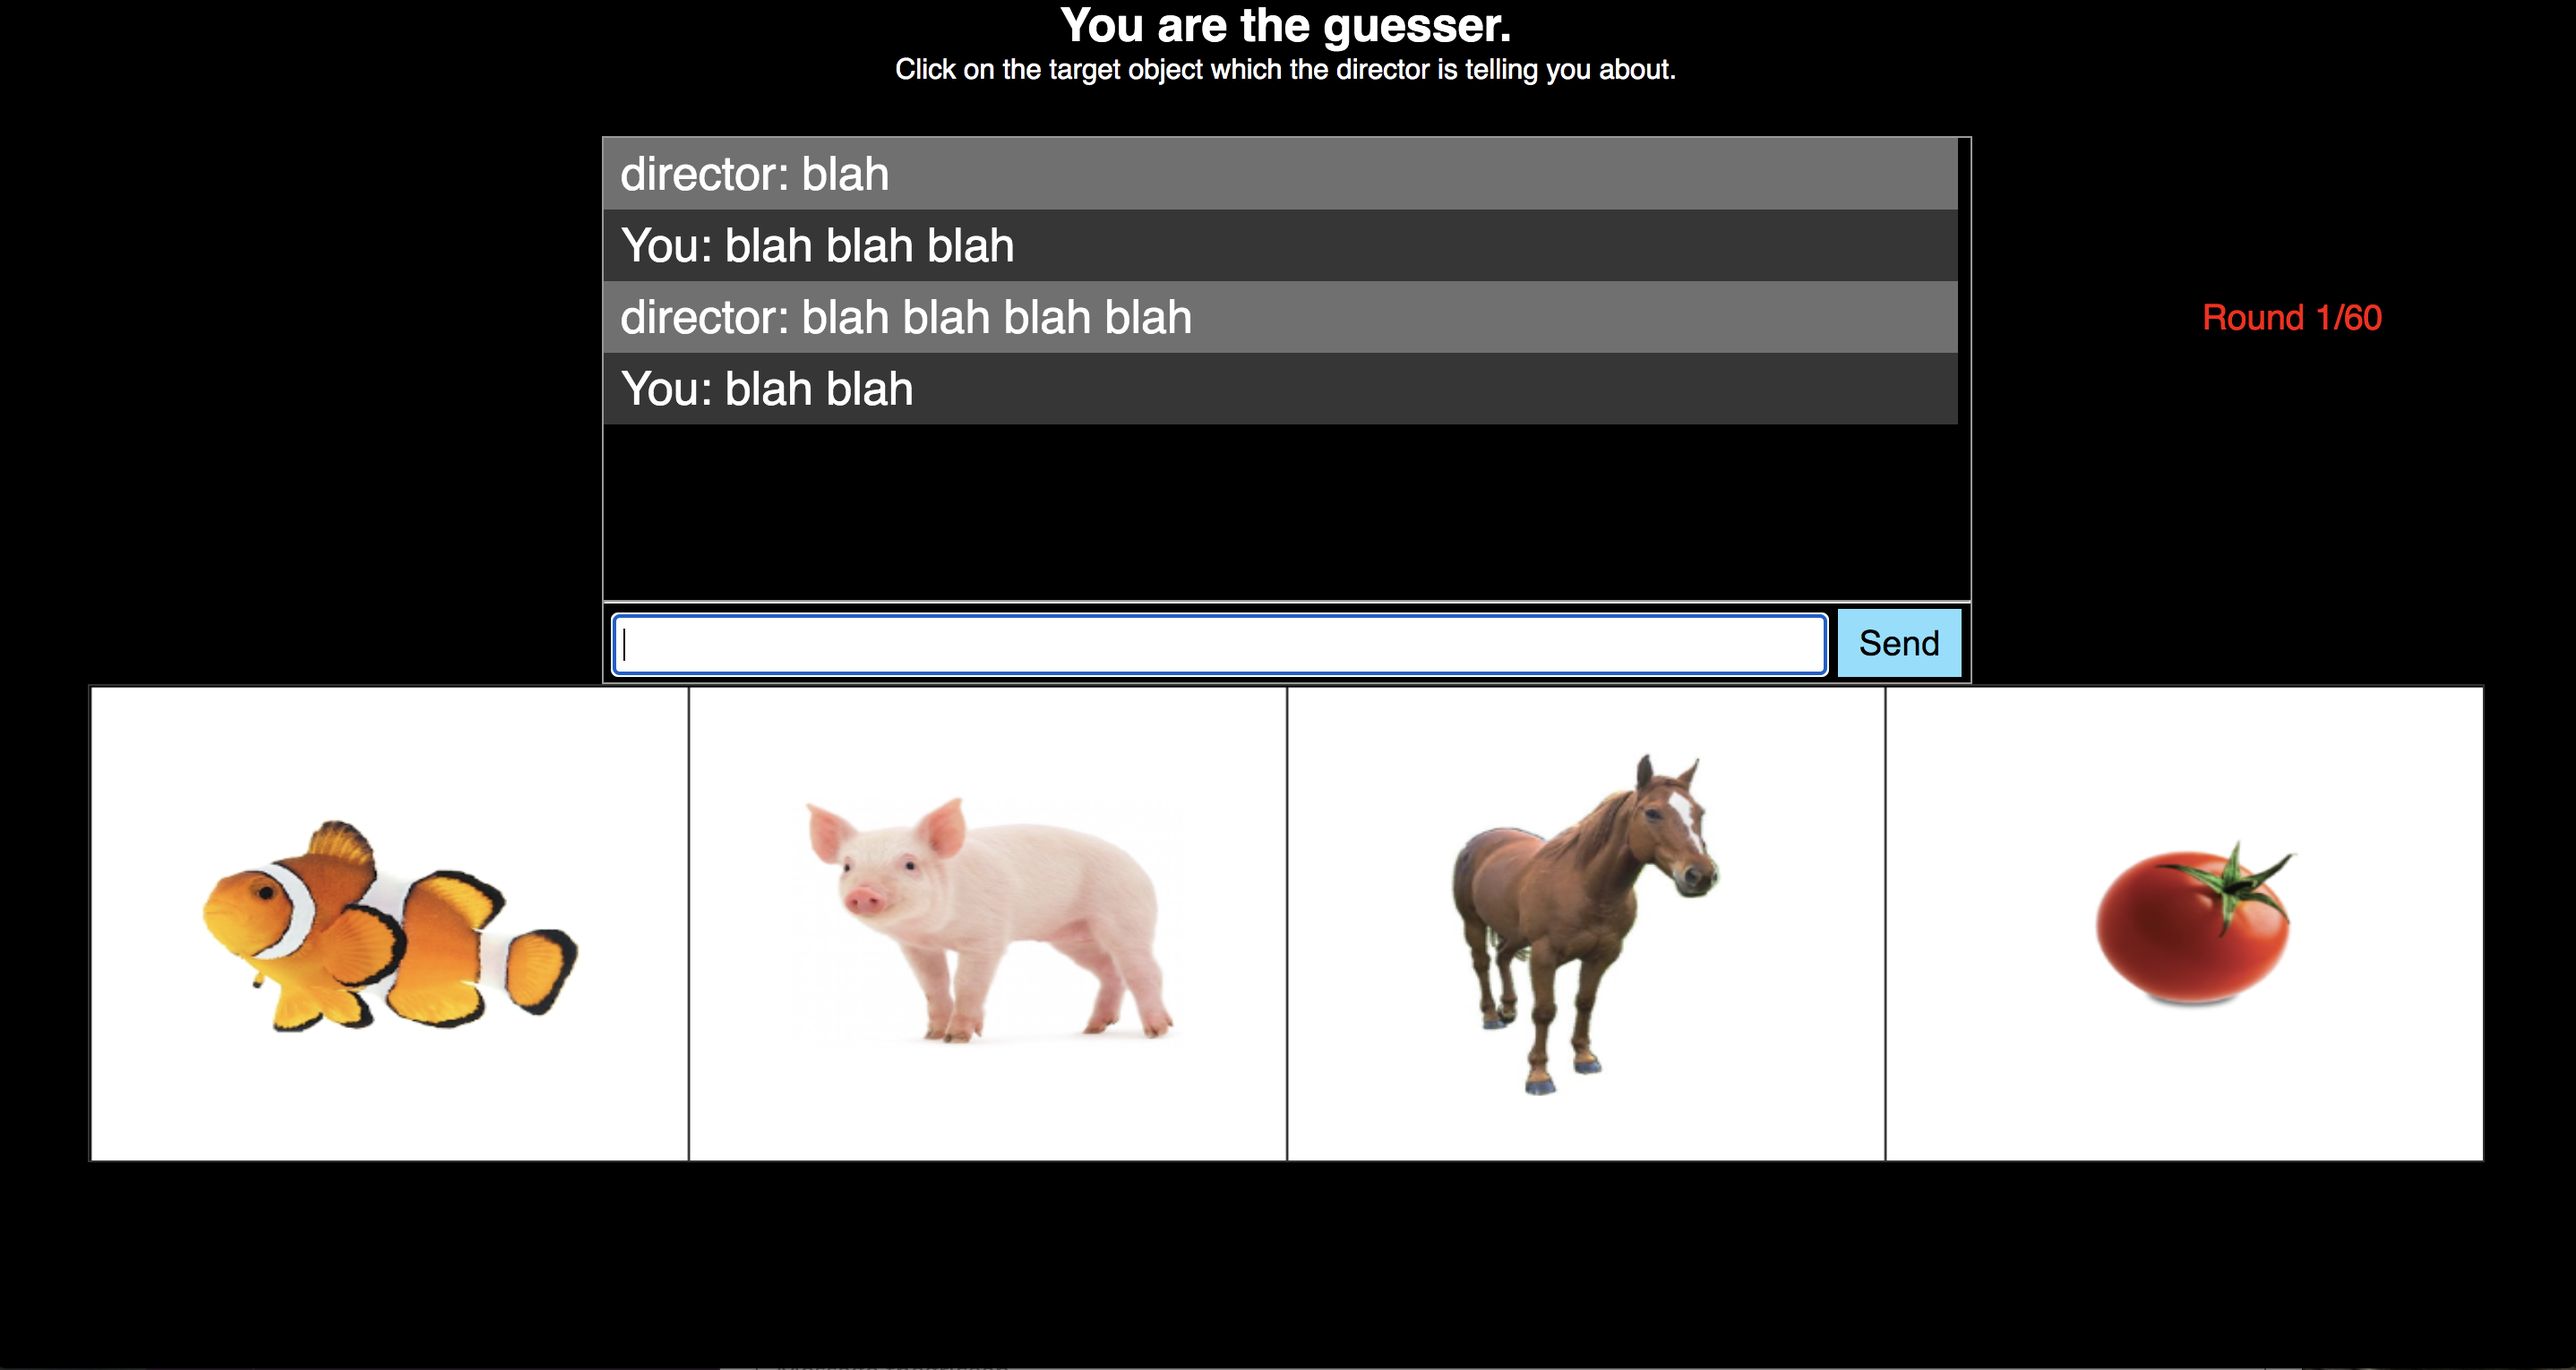
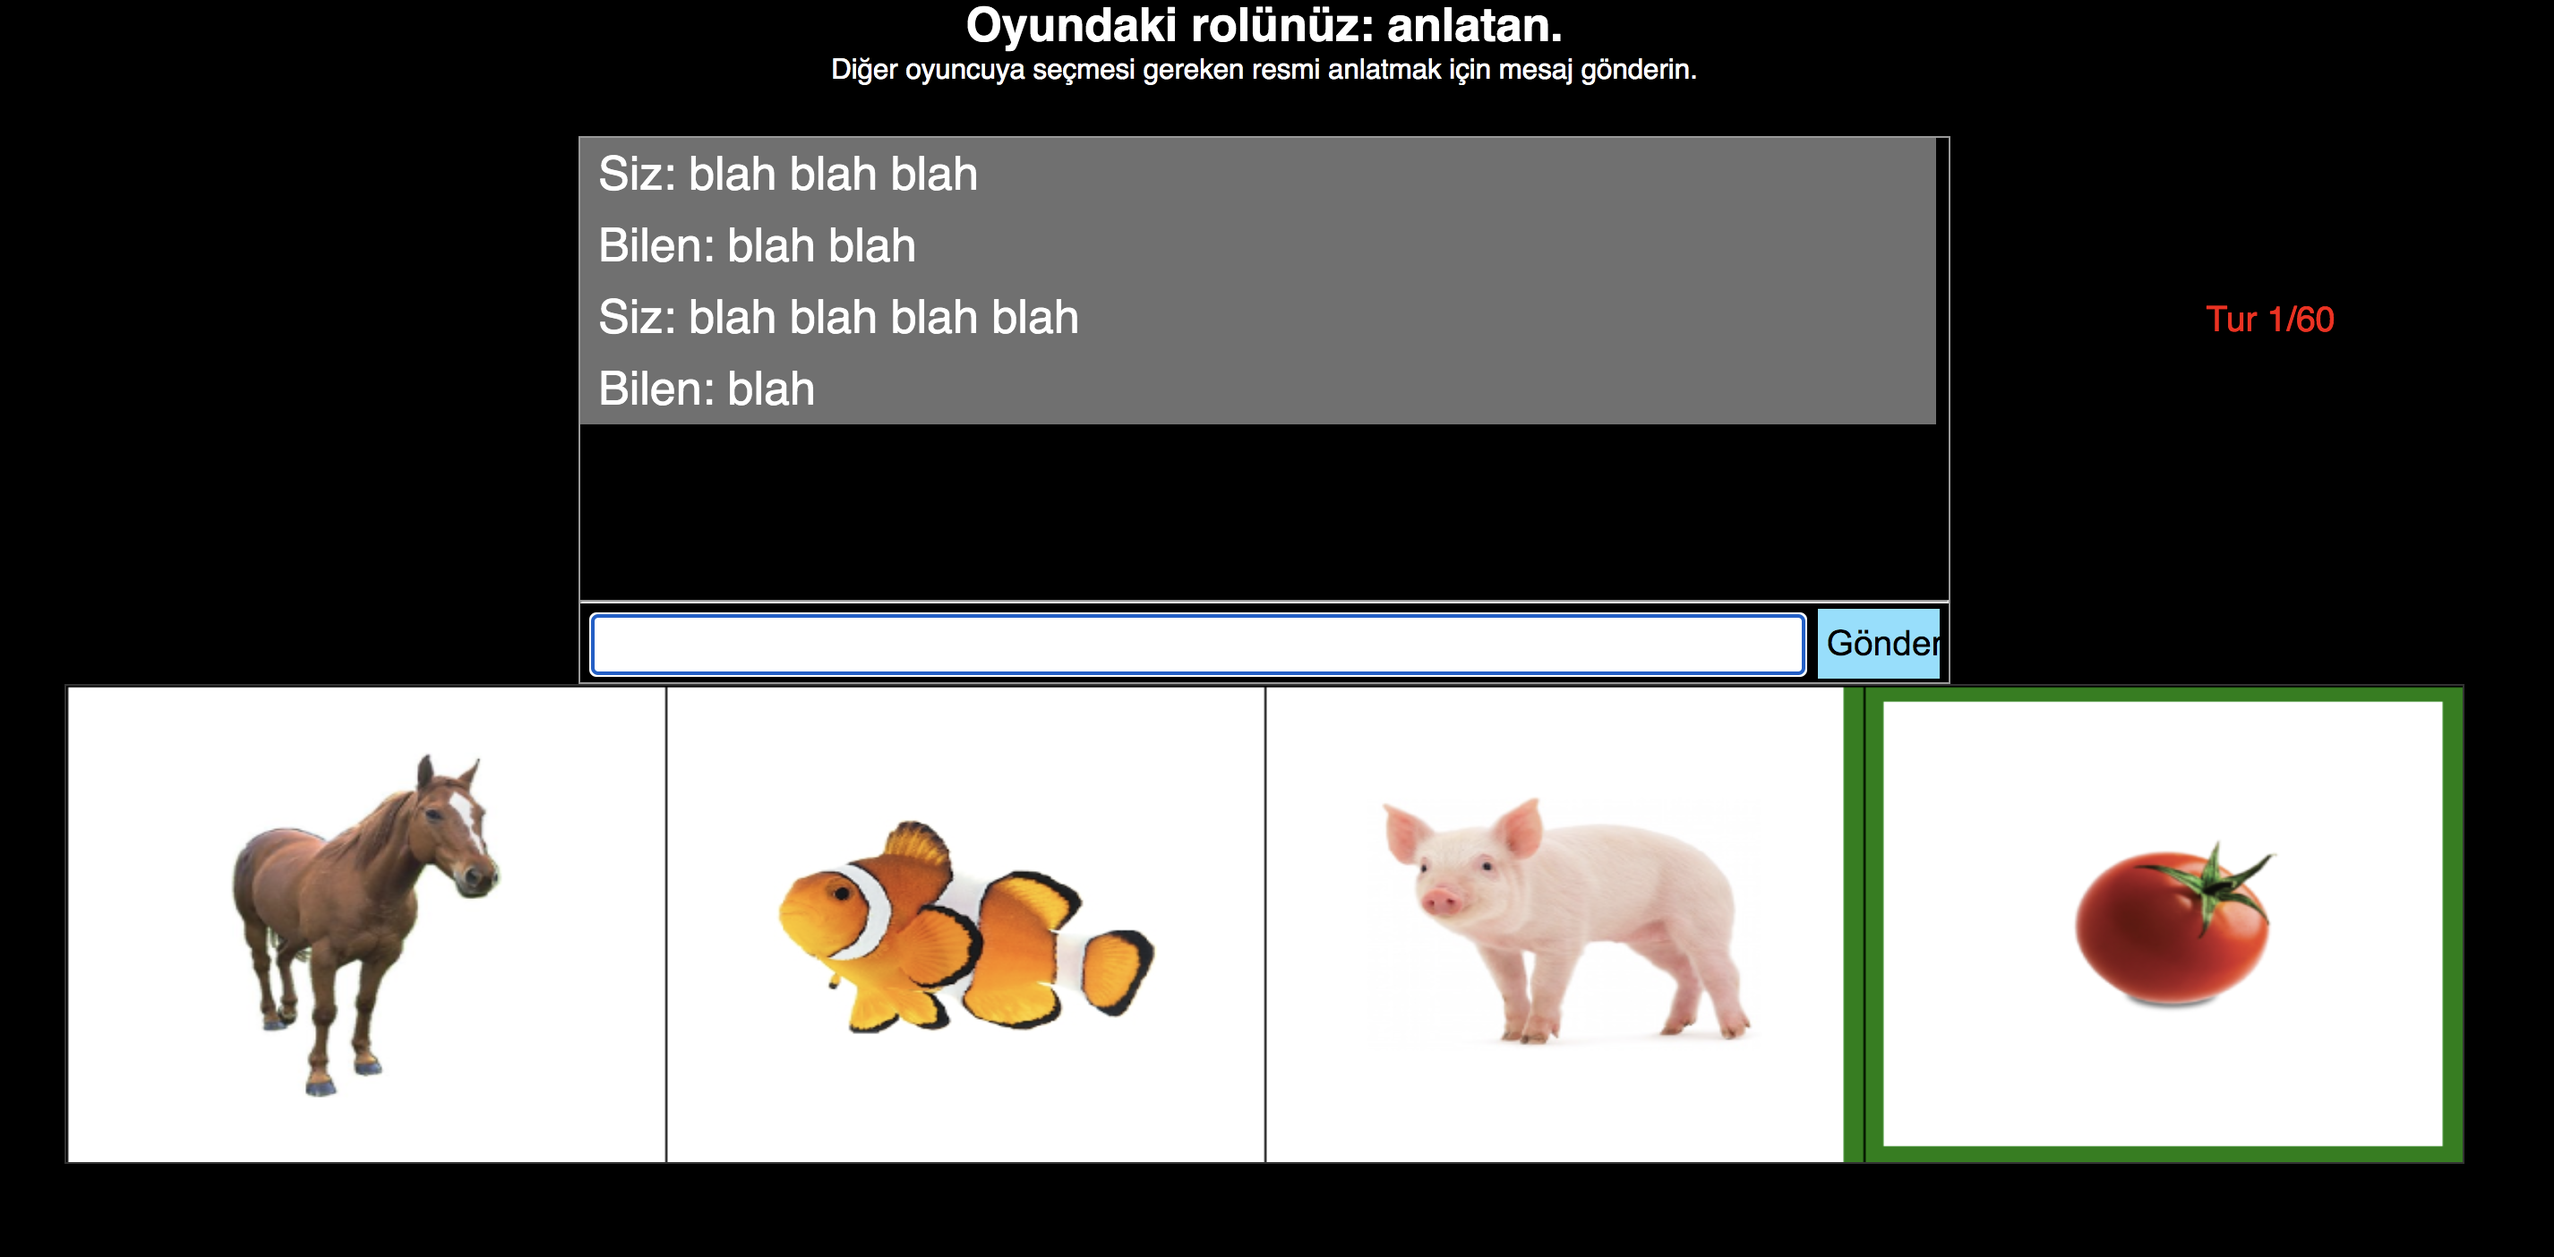
typos

diff --git a/experiments/08_turkish_production/production/main/experiment/game.client.js b/experiments/08_turkish_production/production/main/experiment/game.client.js
@@ -294,12 +294,12 @@ var client_connect_to_server = function (game) {
     var otherRole = (my_role === game.playerRoleNames.role1 ?
       game.playerRoleNames.role2 :
       game.playerRoleNames.role1);
-    // if (otherRole == 'speaker')
-    //   otherName = 'Anlatan'
-    // else
-    //   otherName = 'Bilen'
+    if (otherRole == 'speaker')
+      otherName = 'Anlatan'
+    else
+      otherName = 'Bilen'
 
-    var source = data.user === my_id ? "You" : otherName;
+    var source = data.user === my_id ? "Siz" : otherName;
     var col = source === "You" ? "#363636" : "#707070";
     $('.typing-msg').remove();
     $('#messages').append($('<li style="padding: 5px 10px; background: ' + col + '">')
